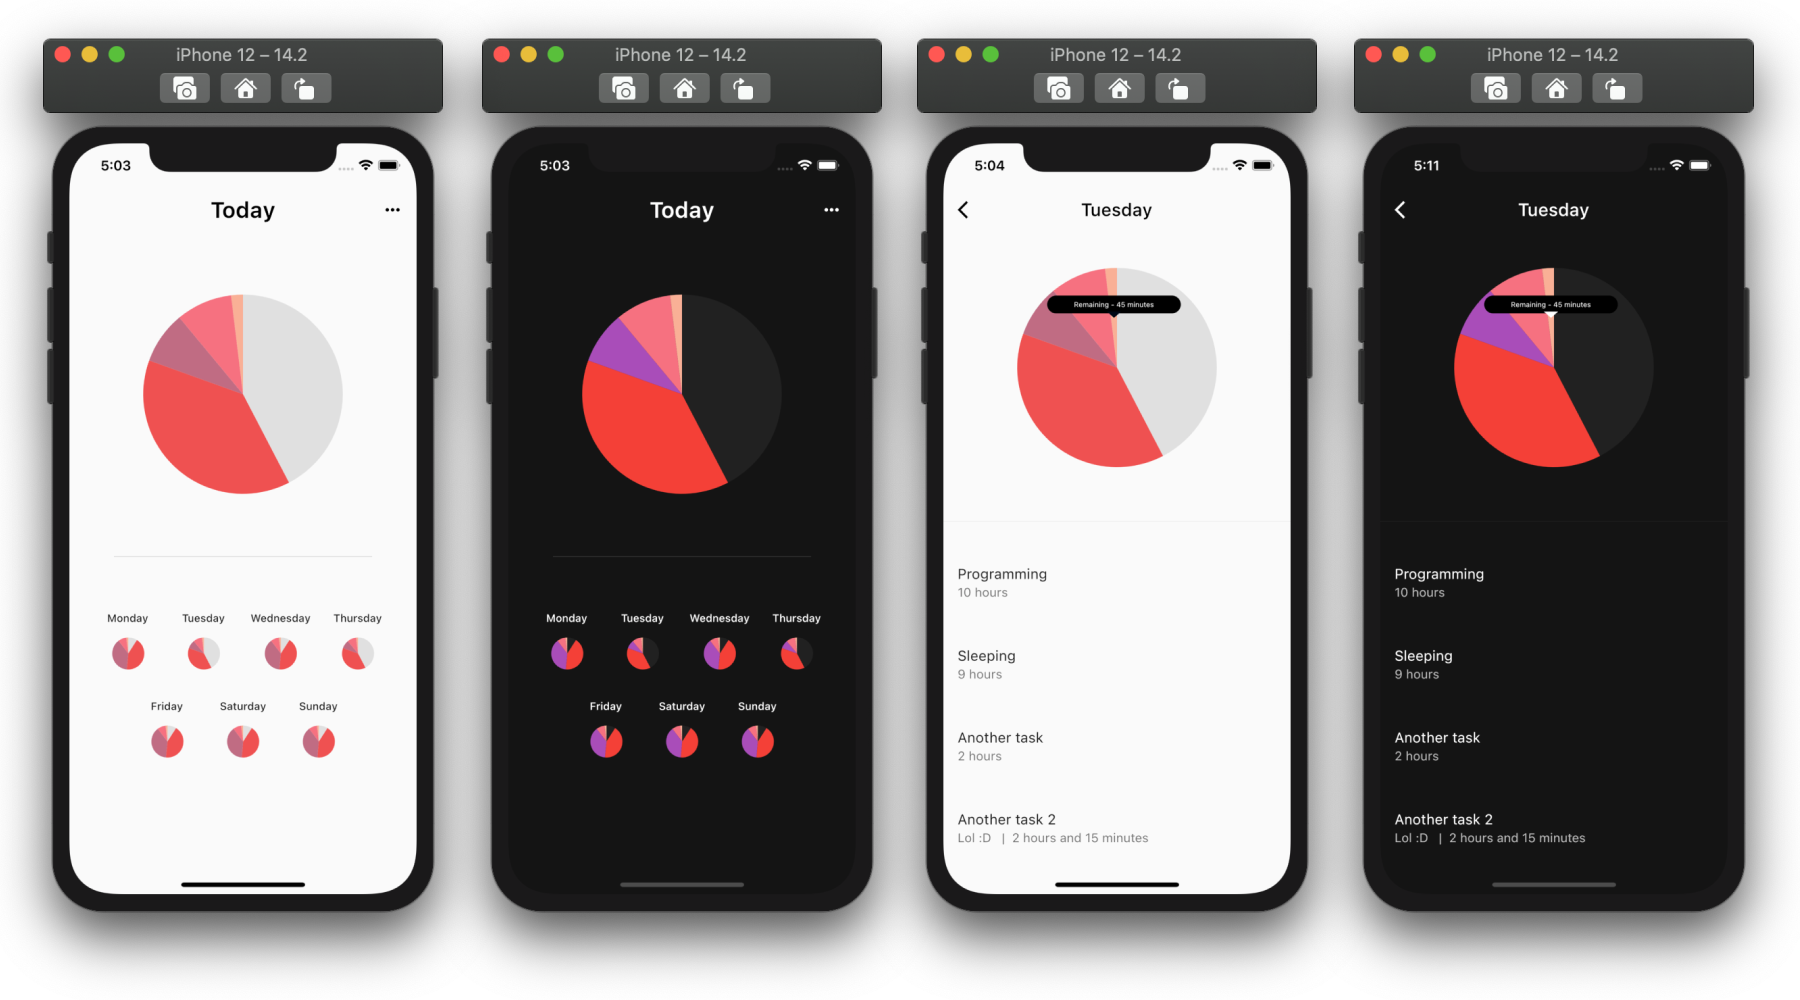
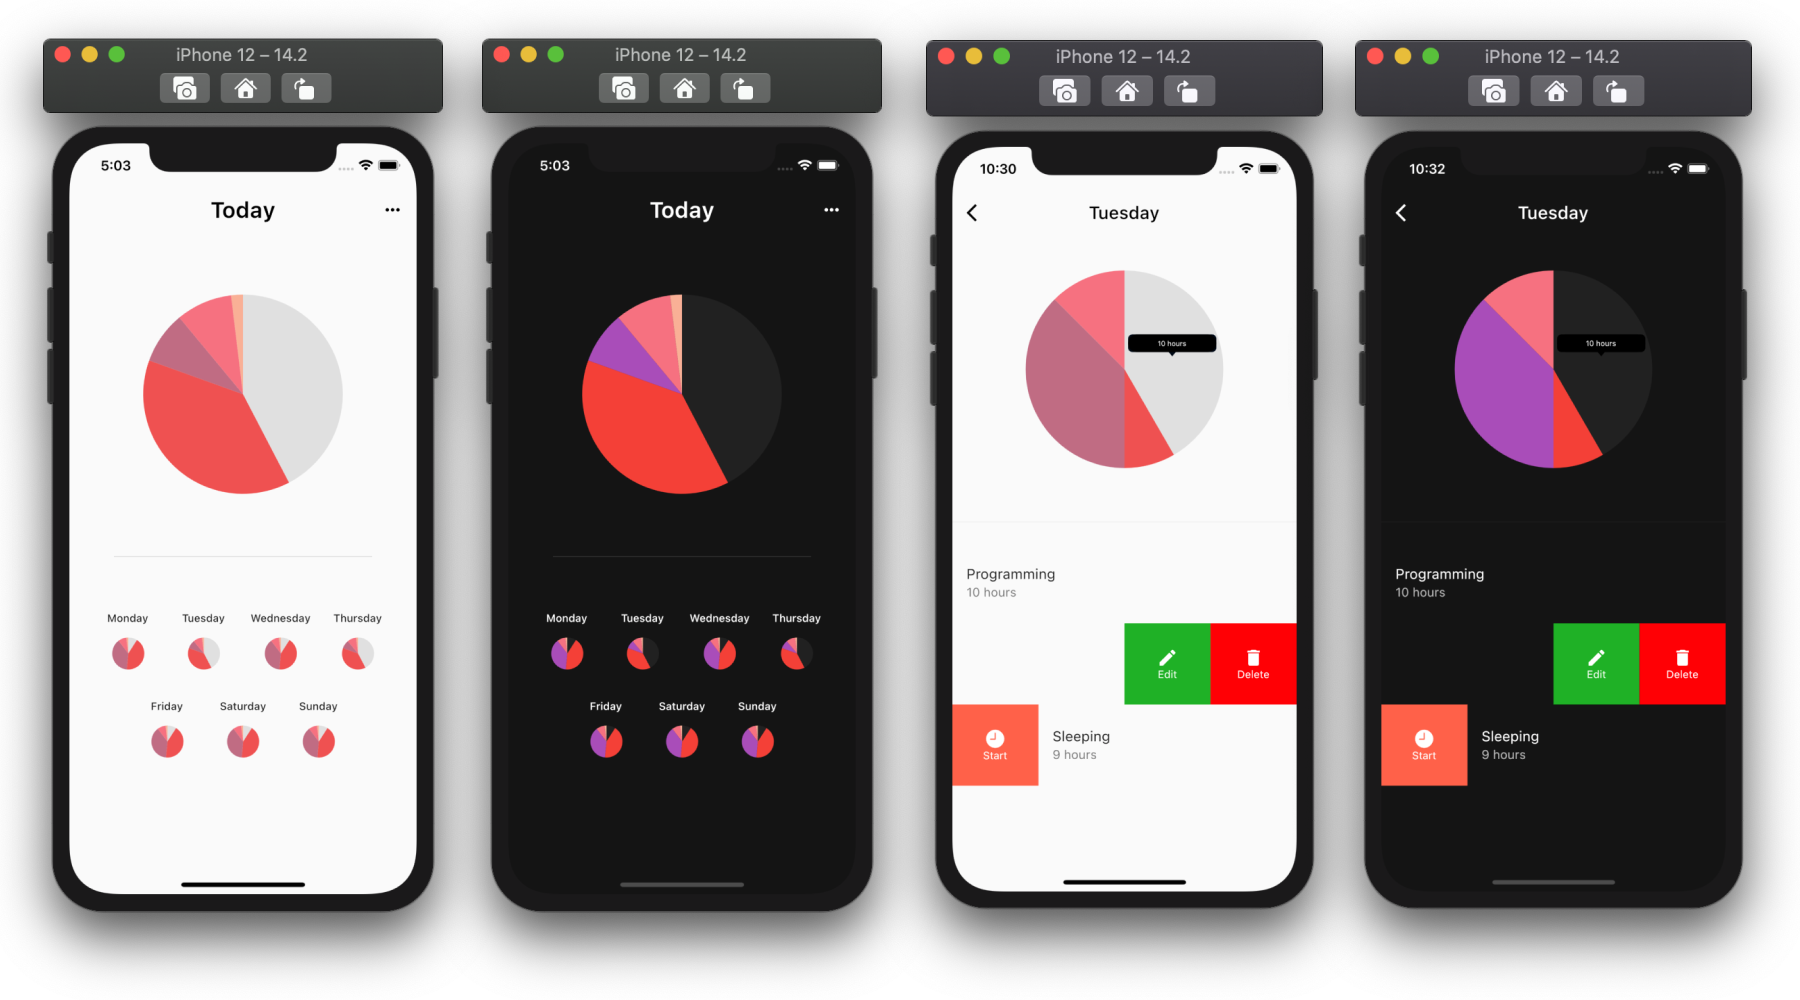
Feature/editable tasks (#24)
* Add edit functionality and integrate it to UI

* Fix right page back navigating

* Add remaining time checker to edit page

* Improve colours

* Update home pages' screenshots

diff --git a/lib/view/edit.dart b/lib/view/edit.dart
@@ -1,0 +1,178 @@
+import 'package:flutter/cupertino.dart';
+import 'package:flutter/material.dart';
+import 'package:hive/hive.dart';
+import 'package:vtime/core/model/task.dart';
+import 'package:vtime/core/services/local_db_service.dart';
+import 'package:vtime/core/utils/widgets.dart';
+
+import 'widgets/appbars.dart';
+import 'widgets/buttons.dart';
+import 'widgets/utils.dart';
+
+class EditPage extends VTStatefulWidget {
+  final Task task;
+  final Box<Task> dayBox;
+
+  EditPage({
+    Key? key,
+    required this.task,
+    required this.dayBox,
+  }) : super(key: key);
+
+  @override
+  _EditPageState createState() => _EditPageState();
+}
+
+class _EditPageState extends VTState<EditPage> {
+  final localDbService = LocalDBService();
+  final viewUtils = ViewUtils();
+
+  final formKey = GlobalKey<FormState>();
+  final titleTextController = TextEditingController();
+  final desTextController = TextEditingController();
+
+  Duration durationOfTask = Duration.zero;
+
+  @override
+  void initState() {
+    durationOfTask = widget.task.duration;
+    titleTextController.text = widget.task.title!;
+    desTextController.text = widget.task.description!;
+    super.initState();
+  }
+
+  @override
+  Widget build(BuildContext context) {
+    return Scaffold(
+      appBar: appBar(context),
+      bottomNavigationBar: SaveButton(
+        title: vt.intl.of(context)!.fmt('act.save'),
+        onTap: saveTask,
+      ),
+      body: SingleChildScrollView(
+        padding: const EdgeInsets.symmetric(vertical: 80, horizontal: 15),
+        child: Form(
+          key: formKey,
+          child: Column(
+            children: [
+              TextFormField(
+                controller: titleTextController,
+                maxLines: 2,
+                decoration: ViewUtils().nonBorderInputDecoration(
+                  hint: vt.intl.of(context)!.fmt('task.title.hint'),
+                ),
+                validator: (v) {
+                  if (v!.isEmpty) {
+                    return vt.intl
+                        .of(context)!
+                        .fmt('error.title_field_validation');
+                  }
+                },
+              ),
+              const SizedBox(width: 15),
+              const Divider(),
+              const SizedBox(width: 15),
+              TextFormField(
+                controller: desTextController,
+                minLines: 1,
+                maxLines: 15,
+                decoration: ViewUtils().nonBorderInputDecoration(
+                  hint: vt.intl.of(context)!.fmt('task.desc.hint'),
+                ),
+              ),
+            ],
+          ),
+        ),
+      ),
+    );
+  }
+
+  TransparentAppBar appBar(BuildContext context) {
+    return TransparentAppBar(
+      titleWidget: GestureDetector(
+        onTap: () => showTimePicker(),
+        child: Wrap(
+          crossAxisAlignment: WrapCrossAlignment.center,
+          children: [
+            const Icon(CupertinoIcons.clock_fill),
+            const SizedBox(width: 10),
+            Text(
+              durationOfTask.toHumanLang(vt, context),
+              style: const TextStyle(fontSize: 15),
+            )
+          ],
+        ),
+      ),
+      onLeadingTap: () {
+        ScaffoldMessenger.of(context).removeCurrentSnackBar();
+        Navigator.pop(context);
+      },
+    );
+  }
+
+  Future<void> showTimePicker() async {
+    showModalBottomSheet(
+      context: context,
+      builder: (builder) {
+        return SizedBox(
+          height: MediaQuery.of(context).copyWith().size.height / 3,
+          child: SizedBox.expand(
+            child: CupertinoTimerPicker(
+              mode: CupertinoTimerPickerMode.hm,
+              minuteInterval: 1,
+              secondInterval: 1,
+              initialTimerDuration: durationOfTask,
+              onTimerDurationChanged: (newTime) {
+                setState(() => durationOfTask = newTime);
+              },
+            ),
+          ),
+        );
+      },
+    );
+  }
+
+  saveTask() async {
+    if (!formKey.currentState!.validate()) return;
+
+    if (durationOfTask == Duration.zero) {
+      ScaffoldMessenger.of(context).showSnackBar(
+        SnackBar(
+          backgroundColor: Colors.red,
+          content: Text(vt.intl.of(context)!.fmt('error.not_found_duration')),
+        ),
+      );
+      return;
+    }
+
+    Task editedTask = widget.task.copyWith(
+      title: titleTextController.text,
+      description: desTextController.text,
+      hours: durationOfTask.inHours,
+      minutes: durationOfTask.minute,
+    );
+
+    List<Task> tasksOfSelectedDay = widget.dayBox.values.toList();
+    tasksOfSelectedDay.removeWhere((el) => el.title == widget.task.title);
+    Duration remainingTime = ViewUtils.fullDay -
+        viewUtils.calculateTotalDuration(tasksOfSelectedDay);
+
+    if (editedTask.duration > remainingTime) {
+      ScaffoldMessenger.of(context).showSnackBar(
+        SnackBar(
+          backgroundColor: Colors.red,
+          content: Text(
+            vt.intl
+                .of(context)!
+                .fmt('error.selected_duration_more_than_remaining'),
+          ),
+        ),
+      );
+      return;
+    }
+
+    await widget.dayBox.put(widget.task.key, editedTask);
+    ScaffoldMessenger.of(context).removeCurrentSnackBar();
+    Navigator.pop(context);
+  }
+}

diff --git a/lib/view/widgets/task_card.dart b/lib/view/widgets/task_card.dart
@@ -3,10 +3,13 @@ import 'package:flutter/foundation.dart';
 import 'package:flutter/material.dart';
 import 'package:flutter_slidable/flutter_slidable.dart';
 import 'package:hive_flutter/hive_flutter.dart';
+
 import 'package:vtime/core/model/task.dart';
 import 'package:vtime/core/utils/widgets.dart';
+import 'package:vtime/view/edit.dart';
 import 'package:vtime/view/live-task/dashboard.dart';
-import 'package:vtime/view/widgets/utils.dart';
+
+import 'utils.dart';
 
 class TaskCard extends VTStatelessWidget {
   final Task task;
@@ -37,21 +40,30 @@ class TaskCard extends VTStatelessWidget {
           caption: vt.intl.of(context)!.fmt('act.start'),
           color: const Color(0xffFF6347),
           icon: CupertinoIcons.time_solid,
-          onTap: () {
-            Navigator.push(
-              context,
-              MaterialPageRoute(
-                builder: (context) =>
-                    LiveTaskDashboard(task: task, dayBox: dayBox),
-              ),
-            );
-          },
+          onTap: () => Navigator.push(
+            context,
+            MaterialPageRoute(
+              builder: (context) =>
+                  LiveTaskDashboard(task: task, dayBox: dayBox),
+            ),
+          ),
         ),
       ],
       secondaryActions: <Widget>[
         IconSlideAction(
+          caption: vt.intl.of(context)!.fmt('act.edit'),
+          color: const Color(0xFF07B307),
+          icon: Icons.edit,
+          onTap: () => Navigator.push(
+            context,
+            MaterialPageRoute(
+              builder: (context) => EditPage(task: task, dayBox: dayBox),
+            ),
+          ),
+        ),
+        IconSlideAction(
           caption: vt.intl.of(context)!.fmt('act.delete'),
-          color: Colors.red,
+          color: const Color(0xffff0000),
           icon: Icons.delete,
           onTap: () => onDismissed(),
         ),

diff --git a/lib/view/create.dart b/lib/view/create.dart
@@ -1,13 +1,12 @@
 import 'package:flutter/cupertino.dart';
 import 'package:flutter/foundation.dart';
 import 'package:flutter/material.dart';
-import 'package:flutter_bloc/flutter_bloc.dart';
 import 'package:hive/hive.dart';
-import 'package:vtime/core/cubits/preference_cubit.dart';
 
 import 'package:vtime/core/model/task.dart';
 import 'package:vtime/core/services/local_db_service.dart';
 import 'package:vtime/core/utils/widgets.dart';
+import 'package:vtime/view/widgets/buttons.dart';
 import 'package:vtime/view/widgets/utils.dart';
 
 import 'dashboard.dart';
@@ -46,7 +45,10 @@ class CreateTaskPageState extends VTState<CreateTaskPage> {
     return Scaffold(
       extendBodyBehindAppBar: true,
       appBar: appBar(context),
-      bottomNavigationBar: createButton(),
+      bottomNavigationBar: SaveButton(
+        title: vt.intl.of(context)!.fmt('act.create'),
+        onTap: createTask,
+      ),
       body: SingleChildScrollView(
         padding: const EdgeInsets.all(10),
         child: Form(
@@ -137,29 +139,6 @@ class CreateTaskPageState extends VTState<CreateTaskPage> {
           ),
         );
       },
-    );
-  }
-
-  Widget createButton() {
-    return Transform.translate(
-      offset: Offset(0, -1 * MediaQuery.of(context).viewInsets.bottom),
-      child: Padding(
-        padding: const EdgeInsets.symmetric(vertical: 30),
-        child: FractionallySizedBox(
-          widthFactor: .8,
-          child: ElevatedButton(
-            onPressed: () => createTask(),
-            child: Text(
-              vt.intl.of(context)!.fmt('act.create'),
-              style: BlocProvider.of<PreferenceCubit>(context)
-                  .state
-                  .theme!
-                  .textTheme
-                  .button,
-            ),
-          ),
-        ),
-      ),
     );
   }
 

diff --git a/lib/view/widgets/buttons.dart b/lib/view/widgets/buttons.dart
@@ -1,0 +1,40 @@
+import 'package:flutter/cupertino.dart';
+import 'package:flutter/material.dart';
+import 'package:flutter_bloc/flutter_bloc.dart';
+import 'package:vtime/core/cubits/preference_cubit.dart';
+import 'package:vtime/core/utils/widgets.dart';
+
+class SaveButton extends VTStatelessWidget {
+  final String title;
+  final Function onTap;
+
+  SaveButton({
+    Key? key,
+    required this.title,
+    required this.onTap,
+  }) : super(key: key);
+
+  @override
+  Widget build(BuildContext context) {
+    return Transform.translate(
+      offset: Offset(0, -1 * MediaQuery.of(context).viewInsets.bottom),
+      child: Padding(
+        padding: const EdgeInsets.symmetric(vertical: 30),
+        child: FractionallySizedBox(
+          widthFactor: .8,
+          child: ElevatedButton(
+            onPressed: () => onTap(),
+            child: Text(
+              title,
+              style: BlocProvider.of<PreferenceCubit>(context)
+                  .state
+                  .theme!
+                  .textTheme
+                  .button,
+            ),
+          ),
+        ),
+      ),
+    );
+  }
+}

diff --git a/lib/view/widgets/day_chart.dart b/lib/view/widgets/day_chart.dart
@@ -80,6 +80,7 @@ class _DayChartState extends VTState<DayChart> {
 
   TooltipBehavior tooltipBehavior() {
     return TooltipBehavior(
+      color: Colors.black,
       enable: true,
       builder: (dynamic data, dynamic point, dynamic series, int pointIndex,
           int seriesIndex) {
@@ -93,7 +94,7 @@ class _DayChartState extends VTState<DayChart> {
           child: Center(
             child: Text(
               generateTooltipText(data),
-              style: const TextStyle(color: Colors.white, fontSize: 8),
+              style: const TextStyle(color: Colors.white, fontSize: 8.5),
             ),
           ),
         );

diff --git a/lib/view/day_view.dart b/lib/view/day_view.dart
@@ -1,13 +1,11 @@
-import 'dart:io';
-
-import 'package:flutter/foundation.dart';
 import 'package:flutter/material.dart';
+import 'package:flutter/foundation.dart';
 import 'package:hive/hive.dart';
 import 'package:vtime/core/model/day.dart';
 import 'package:vtime/core/model/task.dart';
-import 'package:vtime/view/widgets/day_chart.dart';
-import 'package:vtime/view/widgets/task_card.dart';
 
+import 'widgets/day_chart.dart';
+import 'widgets/task_card.dart';
 import 'widgets/appbars.dart';
 import 'widgets/utils.dart';
 
